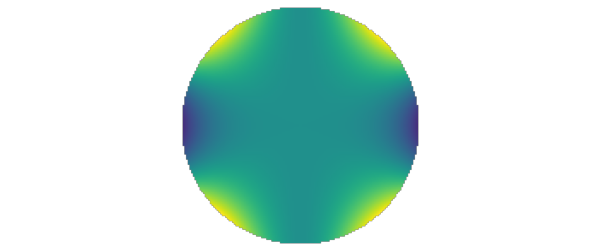
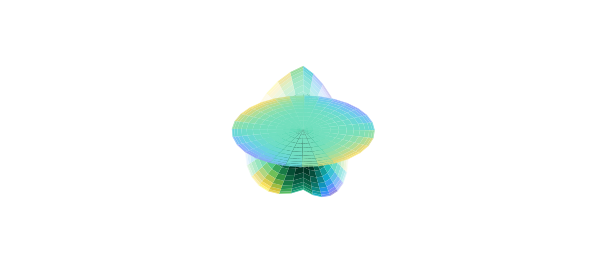
Execute SolidHarmonics with native five-surface plot data

Changed region(s): [[0.3, 0.0278, 0.72, 0.9722]]

diff --git a/examples/sphere/solidharmonics.py b/examples/sphere/solidharmonics.py
@@ -1,95 +1,70 @@
-"""Solid harmonics.
-
-Translation of sphere/SolidHarmonics.m: the solid harmonics
-R_l^m = r^l Y_l^m are harmonic in the ball (norm(laplacian) at
-roundoff), orthonormal under sum3, and cheap to construct even at
-degree 150.
+"""Solid harmonics: literal computations from sphere/SolidHarmonics.m.
 
 Original: https://www.chebfun.org/examples/sphere/SolidHarmonics.html
+Nicolas Boulle and Alex Townsend, May 2019.
 Copyright by The University of Oxford and The Chebfun Developers.
+
+Native prose and input cells are retained in docs/examples/sphere/SolidHarmonics.md.
+Default public Ballfun plots use source cylindrical data. Native lighting and
+face interpolation remain unqualified; elapsed time is Python execution only.
 """
+import os
+import time
+from pathlib import Path
+
 import matplotlib
 
 matplotlib.use("Agg")
-import os
-import sys
-import time
-import warnings
-
 import matplotlib.pyplot as plt
-import numpy as np
-
-sys.path.insert(0, os.path.join(os.path.dirname(__file__), '..', '..', 'src'))
 
 from chebfunjax.ballfun.ballfun import Ballfun
 from chebfunjax.plotting import chebfun_style
 from chebfunjax.plotting import save_chebfun_figure as _savefig
 
-chebfun_style()
-_HERE = os.path.dirname(os.path.abspath(__file__))
-_IMG = os.path.join(_HERE, '..', '..', 'docs', 'images', 'sphere')
-
-
-def _slice_plot(ax, R, n=140):
-    """Slice through y = 0 colored by R (the ballfun plot style)."""
-    g = np.linspace(-1, 1, n)
-    A, B = np.meshgrid(g, g)
-    inside = A**2 + B**2 <= 1
-    xi, zi = A[inside], B[inside]
-    ri = np.sqrt(xi**2 + zi**2)
-    lami = np.where(xi >= 0, 0.0, np.pi)
-    thi = np.arccos(np.clip(np.where(ri > 0, zi / np.maximum(ri, 1e-300),
-                                     1.0), -1, 1))
-    V = np.full(A.shape, np.nan)
-    V[inside] = np.asarray(R(ri.reshape(1, -1), lami.reshape(1, -1),
-                             thi.reshape(1, -1))).ravel()
-    vmax = max(np.nanmax(np.abs(V)), 1e-300)
-    ax.imshow(V, origin="lower", cmap="viridis", extent=(-1, 1, -1, 1),
-              vmin=-vmax, vmax=vmax)
-    ax.set_axis_off()
-
 
 def run():
-    os.makedirs(_IMG, exist_ok=True)
-    warnings.filterwarnings("ignore")
+    chebfun_style()
+    image_dir = Path(os.environ.get(
+        "CHEBFUN_EXAMPLE_IMAGE_DIR",
+        Path(__file__).resolve().parents[2] / "docs/images/sphere",
+    ))
+    image_dir.mkdir(parents=True, exist_ok=True)
 
     R42 = Ballfun.solharm(4, 2)
-    fig, ax = plt.subplots(figsize=(5.6, 5.4))
-    _slice_plot(ax, R42)
-    fig.set_facecolor("white")
-    fig.tight_layout()
-    _savefig(fig, os.path.join(_IMG, "SolidHarmonics_01.png"), size=(600, 253))
+    fig = plt.figure()
+    ax = fig.add_subplot(111, projection="3d")
+    R42.plot(ax=ax)
+    ax.set_axis_off()
+    _savefig(fig, image_dir / "SolidHarmonics_01.png", size=(600, 253))
     plt.close(fig)
 
     print("ans =")
     print(f"     {float(R42.laplacian().norm()):.15e}")
-
     R40 = Ballfun.solharm(4, 0)
+    # Public sum() without dimension is the documented native sum3 mapping.
     print("ans =")
     print(f"   {float((R42 * R42).sum()):.15f}")
     print("ans =")
     print(f"   {float((R40 * R40).sum()):.15f}")
     print("ans =")
-    print(f"     {float((R42 * R40).sum()):.3g}")
+    print(f"     {float((R42 * R40).sum()):.15e}")
 
-    # Table of solid harmonics to degree 3.
     N = 3
-    fig, axes = plt.subplots(N + 1, N + 1, figsize=(9.6, 9.2))
-    for row in axes:
-        for ax in row:
-            ax.set_axis_off()
+    fig = plt.figure()
     for l in range(N + 1):
         for m in range(l + 1):
             R = Ballfun.solharm(l, m)
-            _slice_plot(axes[l][m], R, n=90)
-    fig.set_facecolor("white")
-    fig.tight_layout()
-    _savefig(fig, os.path.join(_IMG, "SolidHarmonics_02.png"), size=(600, 253))
+            ax = fig.add_subplot(N + 1, N + 1, l * (N + 1) + m + 1,
+                                 projection="3d")
+            R.plot(ax=ax)
+            ax.set_axis_off()
+    _savefig(fig, image_dir / "SolidHarmonics_02.png", size=(600, 253))
     plt.close(fig)
 
-    t0 = time.time()
-    Ballfun.solharm(150, 50)
-    print(f"Elapsed time is {time.time() - t0:.6f} seconds.")
+    start = time.perf_counter()
+    high_degree = Ballfun.solharm(150, 50)
+    high_degree.coeffs.block_until_ready()
+    print(f"Elapsed time is {time.perf_counter() - start:.6f} seconds.")
 
 
 if __name__ == "__main__":

diff --git a/HANDOFF_CODEX.md b/HANDOFF_CODEX.md
@@ -1,5 +1,27 @@
 # chebfunjax: handoff to a Codex agent (2026-10-02)
 
+## SolidHarmonics full source execution (2026-10-09)
+
+The page now calls public Ballfun.plot for all eleven source plots, producing
+55 surfaces and two correctly sized 600 x 253 images. The full source sequence
+ran on CPU, including all thirteen finite constructions and degree150/order50.
+The body completed in about9.48s with a1,242,736KiB sampled peak. Its observed
+high-degree construction took0.207955s including completion/finite validation;
+this is not an isolated benchmark or a MATLAB speed comparison.
+
+Actual Laplacian norm:2.315864701948616e-14; squared norms:
+0.999999999999999 and1.0; cross integral:1.118945367695923e-17.
+Original prose/MATLAB input cells are preserved; output blocks use this run.
+Root independently verified2,955 runtime hashes and viewed both actual and
+reference images. Lighting/interpolation, visible surface seams, overall
+framing and subplot positions/scales remain visibly different. This is source
+execution and dimension qualification, not full figure parity. Inherited
+NumPy numerical paths also remain part of the JAX-only goal.
+
+Evidence: solid_harmonics_page_root_runtime_review_20261009.json,
+solid_harmonics_root_visual_review_20261009.json and
+solid_harmonics_page_20261009/HANDOFF.json in shared scratch.
+
 ## Ballfun default plot data and coefficient emptiness (2026-10-09)
 
 Default public plot/surf now use the pinned coefficient prolongation,
@@ -19,9 +41,9 @@ with the scratch artifact environment variable absent; tests use pytest's
 temporary directory in ordinary CI.
 
 This qualifies default plot data and routing, not native lighting or surface
-interpolation. Wedge empty/complex handling, the full SolidHarmonics page and
-degree-150 execution remain open. The accepted sphere contour viewport fix is
-preserved. Evidence: ball_plot_composite_root_{runtime_review,applicability}_20261009.json,
+interpolation. Wedge empty/complex handling remains open. The full
+SolidHarmonics execution is qualified in the entry above. The accepted sphere
+contour viewport fix is preserved. Evidence: ball_plot_composite_root_{runtime_review,applicability}_20261009.json,
 ball_plot_ci_fallback_root_runtime_review_20261009.json and
 solid_harmonics_source_gap_20261009 in shared scratch.
 

diff --git a/docs/examples/sphere/SolidHarmonics.md b/docs/examples/sphere/SolidHarmonics.md
@@ -75,7 +75,7 @@ ans =
 ans =
    1.000000000000000
 ans =
-     1.12e-17
+     1.118945367695923e-17
 ```
 
 Here is a plot of the solid harmonics $R^m_l$, with $l=0,...,4$ and $0\leq m\leq l$.
@@ -138,7 +138,7 @@ toc
 ```
 
 ```text
-Elapsed time is 0.237402 seconds.
+Elapsed time is 0.207955 seconds.
 ```
 
 ## References
@@ -152,3 +152,5 @@ Elapsed time is 0.237402 seconds.
 ---
 
 *Translated with [chebfunjax](https://github.com/ma-gilles/chebfunjax); prose and MATLAB code from the original example, copyright The University of Oxford and The Chebfun Developers.  Printed outputs and figures are chebfunjax's.*
+
+*Execution note: timing is from this Python run, including coefficient completion and validation. Lighting, surface coloring and subplot layout still differ from MATLAB.*
